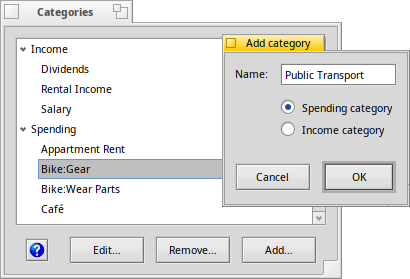
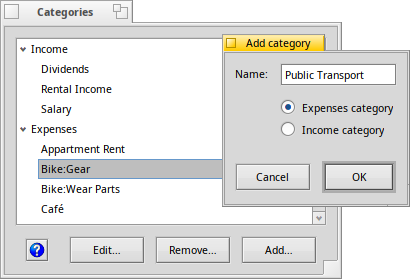
Docs: rename "Spending" to "Expenses"

Changed region(s): [[0.7317, 0.3728, 0.9659, 0.4301], [0.0585, 0.4301, 0.2049, 0.4875]]

diff --git a/documentation/en/budget.html b/documentation/en/budget.html
@@ -35,13 +35,13 @@
 <ol>
 <li><p><span class="menu">Category list</span> - this lists each category, the amount set aside for it, and the period of time for which you are allocating the money, such as each week or month.</p></li>
 <li><p><span class="menu">Budget editor</span> - making changes here will change the item you've chosen in the category list.</p></li>
-<li><p><span class="menu">Information box</span> - displays information about the category selected in the category list. The information includes the biggest and smallest transactions and the average monthly spending over the past 12 months for the chosen category.</p></li>
+<li><p><span class="menu">Information box</span> - displays information about the category selected in the category list. The information includes the biggest and smallest transactions and the average monthly expenses over the past 12 months for the chosen category.</p></li>
 <li><p><span class="menu">Budget summary</span> - shows what your budget looks like over the course of a year.</p></li>
 </ol>
 
 <h2><a id="budget" name="budget">How to make a budget</a></h2>
 
-<p>When you open the <i>Budget</i> window for the first time, it automatically generates a budget for you, based on your spending for the past 12 months. This is only a starting point.</p>
+<p>When you open the <i>Budget</i> window for the first time, it automatically generates a budget for you, based on your expenses for the past 12 months. This is only a starting point.</p>
 
 <div class="box-warning">
 <p>You get back to the auto-generated budget by clicking <span class="menu">Recalculate all</span> in the menu bar.<br />

diff --git a/documentation/en/start.html b/documentation/en/start.html
@@ -117,18 +117,9 @@
 <li>If there's a transaction that's very similar to an already existing one, right-click it and choose <span class="menu">Use as new transaction</span> to fill the text fields of the new transaction with the data.</li>
 </ul></div>
 
-<p>Normally you also enter a <span class="menu">Category</span>. If you don't, a little window pops up where you have to choose the type of transaction: <span class="menu">Income</span> or <span class="menu">Spending</span>.</p>
+<p>Normally you also enter a <span class="menu">Category</span>. If you don't, a little window pops up where you have to choose the type of transaction: <span class="menu">Income</span> or <span class="menu">Expenses</span>.</p>
 
 <p>The <span class="menu">Memo</span> field is not mandatory, but normally it makes sense to add a short description. The text is limited to 63 characters.</p>
-
-<p>For this quick start example, we create a transaction to add an initial balance for our bank account:</p>
-<table summary="layout">
-<tr><td><i>Date:</i></td><td>01.01.2024</td></tr>
-<tr><td><i>Payee:</i></td><td>Init</td></tr>
-<tr><td><i>Amount:</i></td><td>1.200,00 €</td></tr>
-<tr><td><i>Category:</i></td><td>We leave it empty and choose "Income" later in the pop-up window</td></tr>
-<tr><td><i>Memo:</i></td><td>Initial balance</td></tr>
-</table>
 
 <p>If you need to edit a transaction, just double-click it and it opens in an editing window:</p>
 

diff --git a/documentation/en/menus.html b/documentation/en/menus.html
@@ -95,10 +95,10 @@ You can work on several ledgers side by side. Double-click a ledger file to open
 
 <p style="text-align:center"><img src="./images/categories_window.png" alt="The categories window" /></p>
 
-<p>Categories are sorted into two types: <span class="menu">Income</span> and <span class="menu">Spending</span>.</p>
+<p>Categories are sorted into two types: <span class="menu">Income</span> and <span class="menu">Expenses</span>.</p>
 <p>You can select an item and <span class="menu">Edit…</span> its name, or <span class="menu">Remove…</span> it completely. In the later case, a new window opens where you have to choose another category for all the transactions that were filed under the one you're about to remove.</p>
 
-<p>You can also <span class="menu">Add…</span> a new category, give it a unique name and choose if it's an <span class="menu">Income category</span> or <span class="menu">Spending category</span>.</p>
+<p>You can also <span class="menu">Add…</span> a new category, give it a unique name and choose if it's an <span class="menu">Expenses category</span> or <span class="menu">Income category</span>.</p>
 
 
 <h2>

diff --git a/documentation/en/reports.html b/documentation/en/reports.html
@@ -33,7 +33,7 @@
 <p>Three different <span class="menu">Reports</span> are available:</p>
 
 <ul>
-<li><span class="menu">Income / Spending</span> - A breakdown of your income and spending by category.</li>
+<li><span class="menu">Income / Expenses</span> - A breakdown of your income and expenses by category.</li>
 <li><span class="menu">Total worth</span> - How much money you have when your debts are weighed against your savings.</li>
 <li><span class="menu">Transactions</span> - Show all transactions in a particular category.</li>
 </ul>
